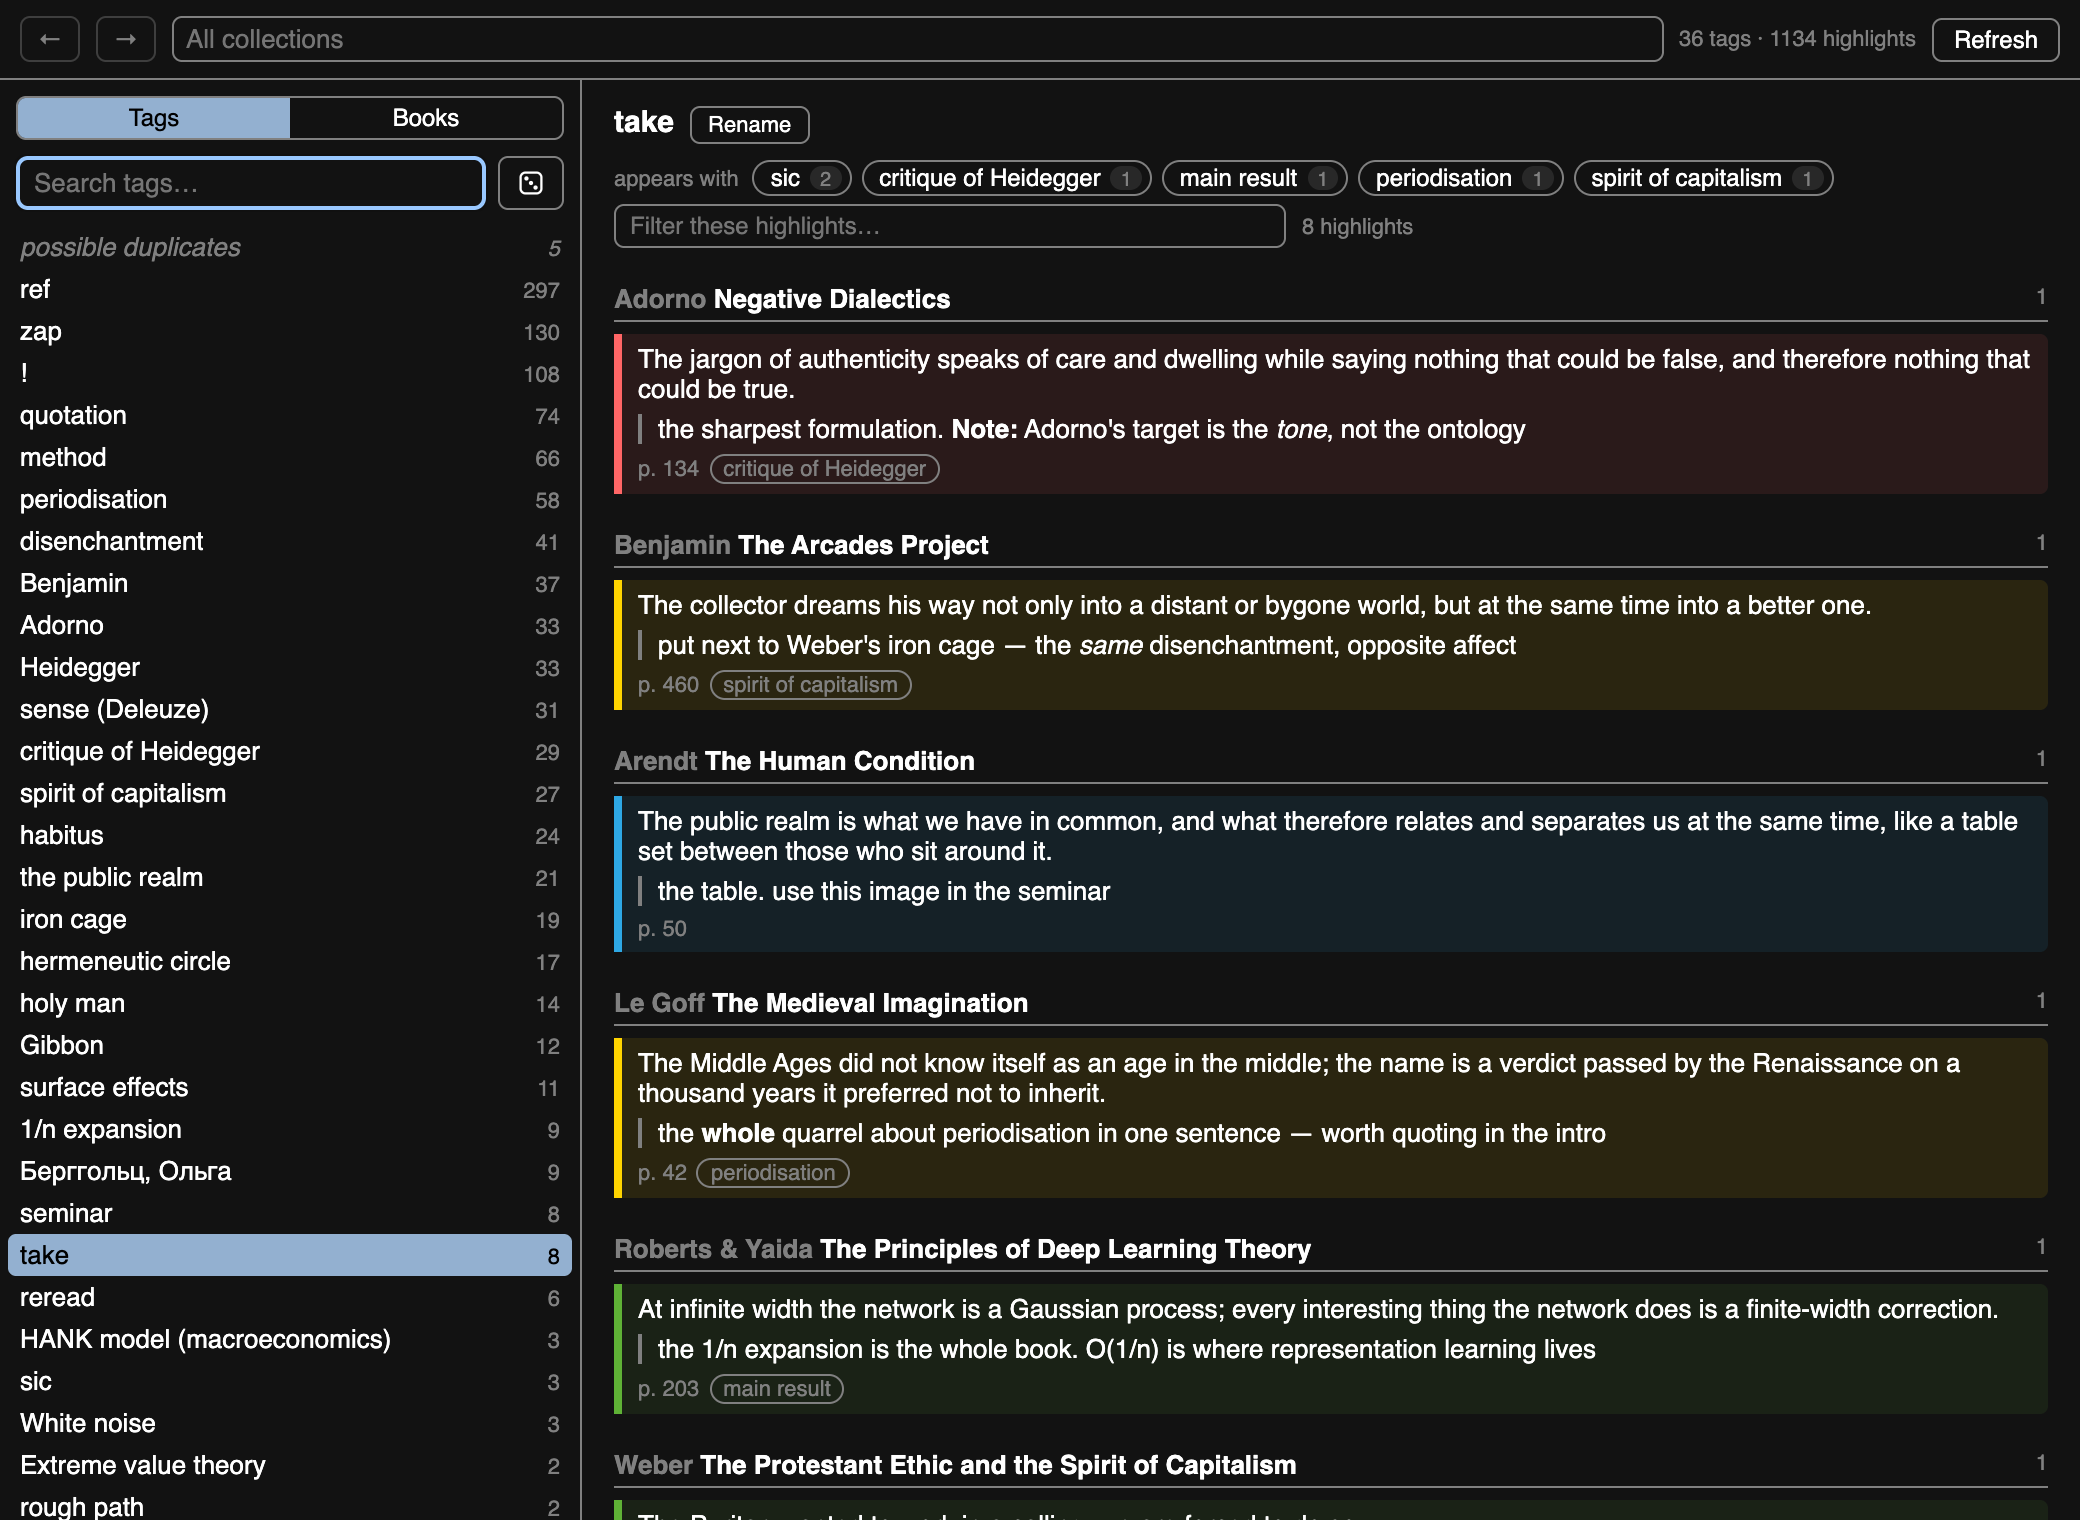
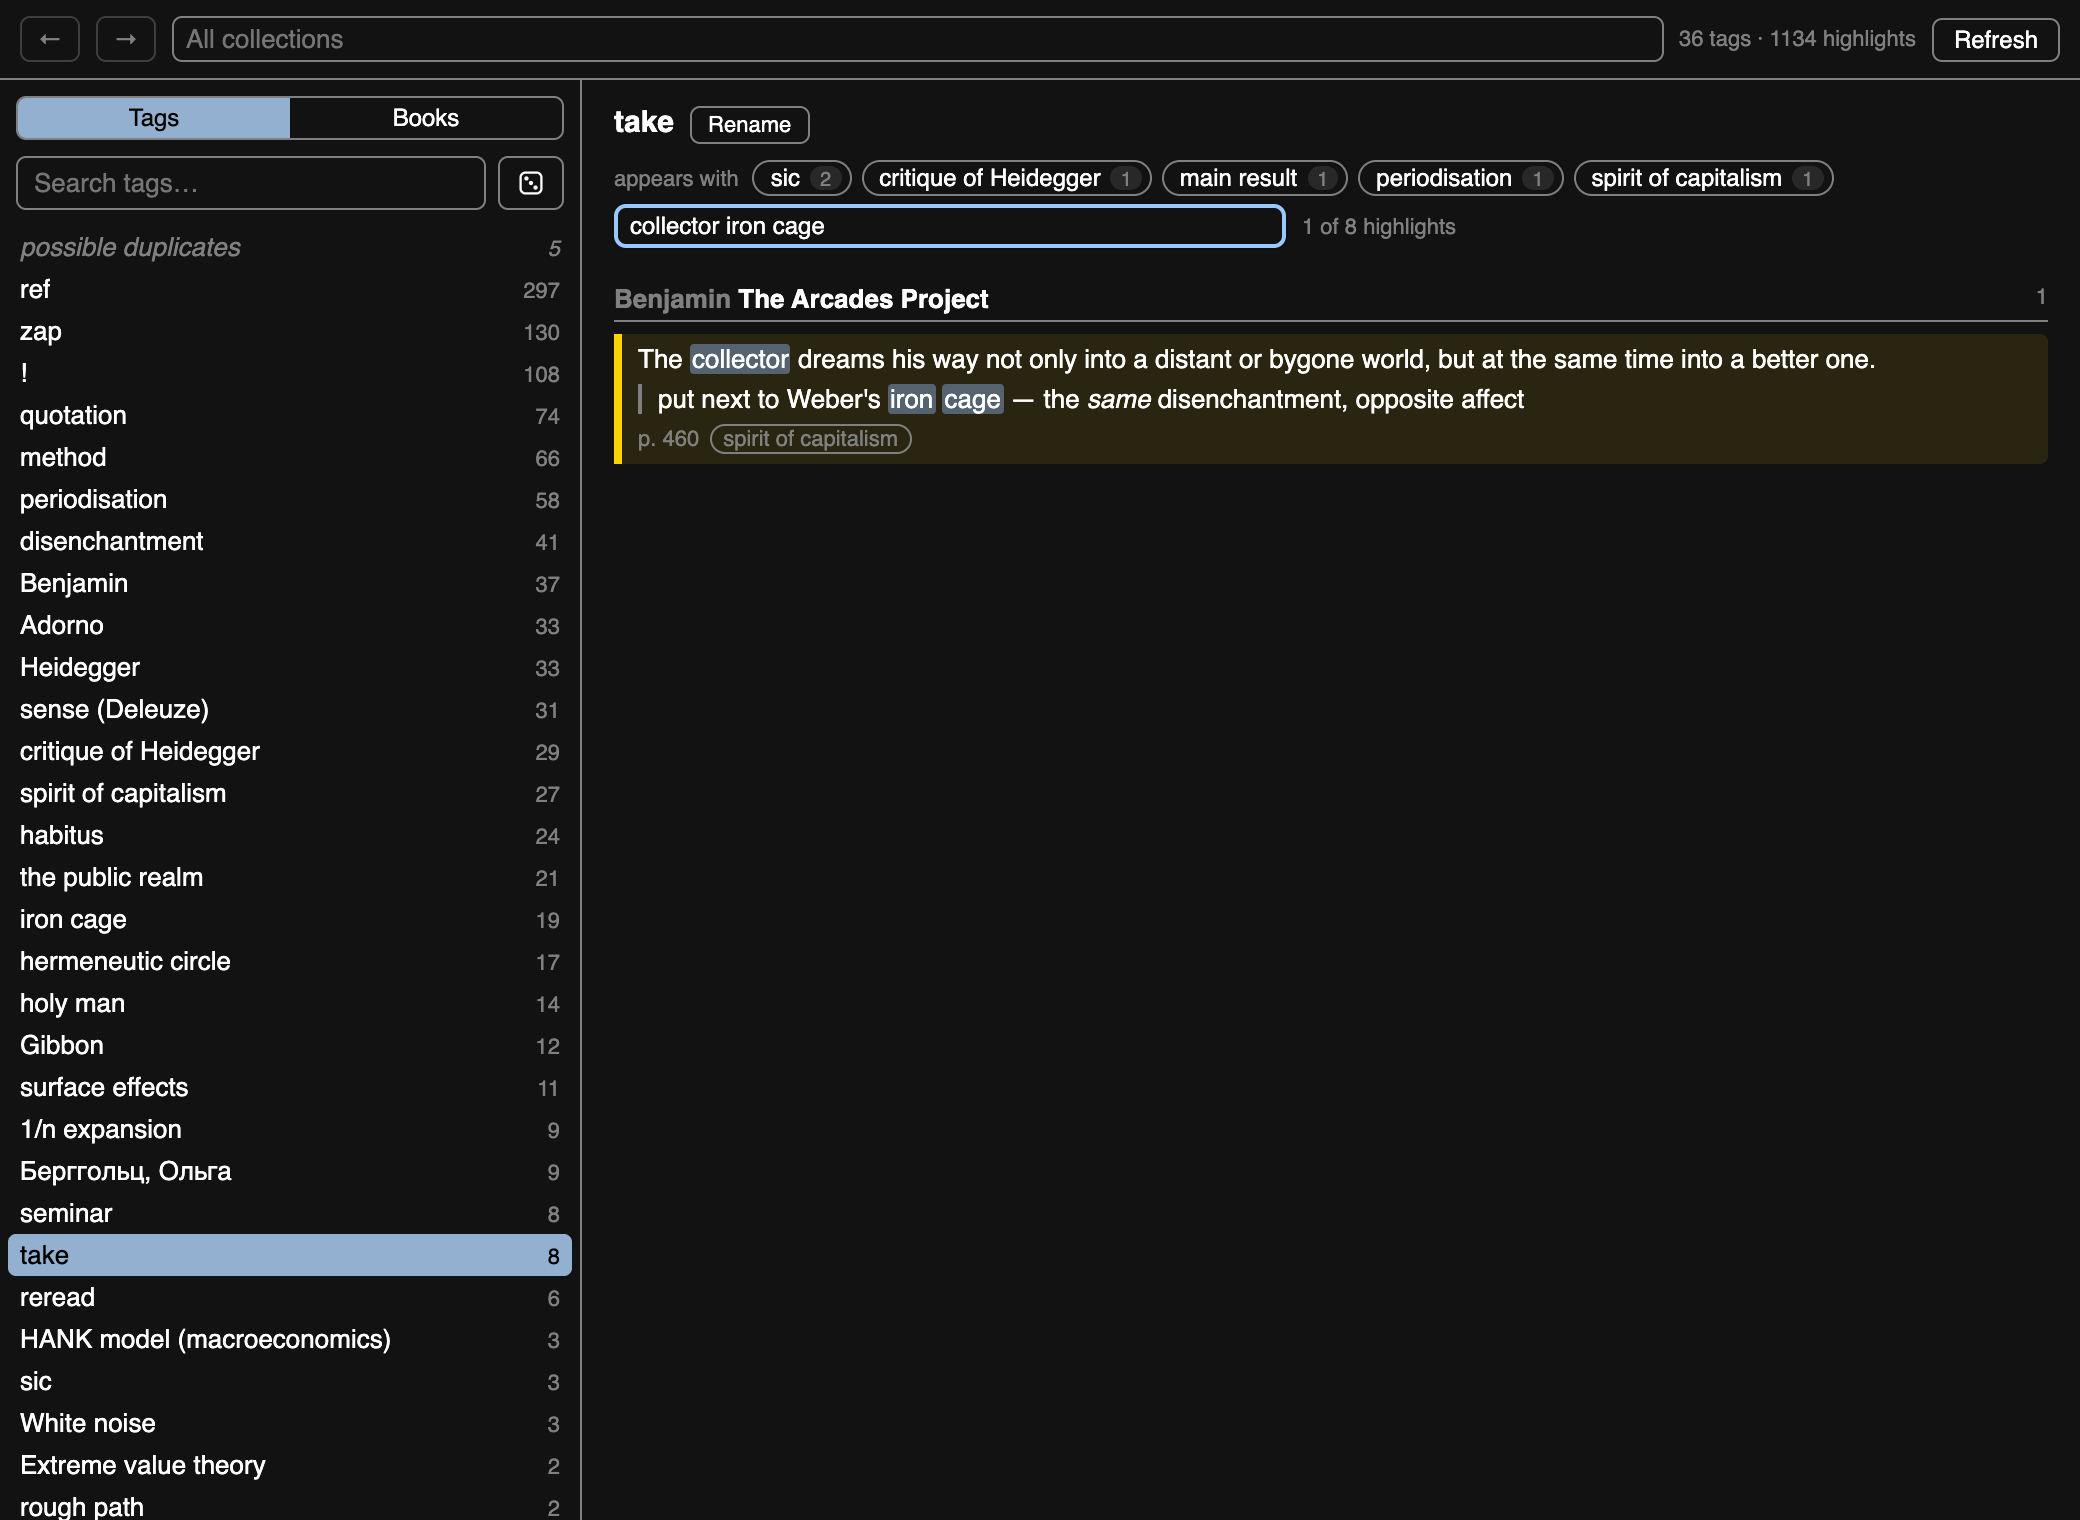
Mark the filter's matches in the text
Filtering 358 highlights down to 12 still left you scanning for the word.
Matches are now marked where they are, in the highlight, in your comment
and in the book header — and the global search marks its own query too.

Split by a mask rather than by successive replacement: two search words can
overlap in the text, and replacing in turn would nest one mark inside the
other. The runs weave through the <i>/<b> tree instead of around it, so
"the <b>whole</b> quarrel" filtered on "whole" stays bold and gains a mark
inside it.

<mark>'s user-agent style is a yellow block with black text, unreadable on
a dark card and at odds with the annotation's own colour, so it is painted
from system colours instead.

diff --git a/bootstrap.js b/bootstrap.js
@@ -225,6 +225,30 @@ function neighbours(rows, tag, limit = 14) {
 		.slice(0, limit);
 }
 
+// Split a plain string into runs, marking the parts that matched the filter.
+// A mask rather than successive replacements: two search words can overlap in
+// the text ("deep" and "epl" in "deeply"), and marking twice would nest.
+function markRuns(str, words) {
+	if (!str || !words.length) return str ? [str] : [];
+	const low = str.toLowerCase();
+	const hit = new Array(str.length).fill(false);
+	for (const w of words) {
+		if (!w) continue;
+		for (let i = low.indexOf(w); i >= 0; i = low.indexOf(w, i + 1)) {
+			for (let k = i; k < i + w.length; k++) hit[k] = true;
+		}
+	}
+	const out = [];
+	let start = 0;
+	for (let i = 1; i <= str.length; i++) {
+		if (i < str.length && hit[i] === hit[i - 1]) continue;
+		const piece = str.slice(start, i);
+		out.push(hit[start] ? { mark: piece } : piece);
+		start = i;
+	}
+	return out;
+}
+
 // The markup tags stripped, for anything that wants the words alone.
 const plain = (str) => str.replace(MARKUP, "");
 
@@ -621,6 +645,10 @@ body { margin:0; height:100vh; display:flex; flex-direction:column;
 .hl .copy:hover { background:Highlight; color:HighlightText; }
 .hl:hover { background:color-mix(in srgb, var(--c) 22%, Canvas); }
 .hl .t { white-space:pre-wrap; }
+/* the UA default is a yellow block with black text, which is unreadable on a
+ * dark card and fights the annotation's own colour */
+mark { background:color-mix(in srgb, Highlight 50%, Canvas); color:inherit;
+	border-radius:2px; padding:0 1px; }
 .hl .c { white-space:pre-wrap; margin-top:5px; padding-left:8px; border-left:2px solid GrayText;
 	color:CanvasText; }
 .hl .m { margin-top:5px; color:GrayText; font-size:11px; display:flex; flex-wrap:wrap; gap:5px; align-items:center; }
@@ -640,11 +668,16 @@ function el(doc, tag, cls, text) {
 
 // The tag names come from MARKUP's whitelist, so this cannot build anything but
 // b/i/sub/sup — no innerHTML, nothing else gets through.
-function markup(doc, str) {
+function markup(doc, str, words) {
 	const frag = doc.createDocumentFragment();
 	const put = (nodes, into) => {
 		for (const n of nodes) {
-			if (typeof n === "string") { into.append(n); continue; }
+			if (typeof n === "string") {
+				for (const run of markRuns(n, words || [])) {
+					into.append(typeof run === "string" ? run : el(doc, "mark", null, run.mark));
+				}
+				continue;
+			}
 			const box = doc.createElement(n.tag);
 			put(n.kids, box);
 			into.append(box);
@@ -655,9 +688,9 @@ function markup(doc, str) {
 }
 
 // Same, as a fresh element.
-function marked(doc, tag, cls, str) {
+function marked(doc, tag, cls, str, words) {
 	const node = el(doc, tag, cls);
-	node.append(markup(doc, str));
+	node.append(markup(doc, str, words));
 	return node;
 }
 
@@ -882,6 +915,12 @@ function build(w) {
 	let hIndex = -1;
 
 	const isTag = (t) => !!view && view.kind === "tag" && view.value === t;
+	// The words to mark: the global search is its own filter, so both boxes feed
+	// the same highlighting.
+	const marks = () => {
+		const q = view && view.kind === "find" ? view.value : hlQuery;
+		return q ? q.toLowerCase().split(/\s+/).filter(Boolean) : [];
+	};
 	// The tag currently doing the narrowing, whichever axis you are on.
 	const activeTag = () => (!view ? null
 		: view.kind === "tag" ? view.value
@@ -1034,7 +1073,7 @@ function build(w) {
 	function bookName(b) {
 		const name = el(doc, "span", "nm");
 		if (b.creator) name.append(el(doc, "i", "who", b.creator + " "));
-		name.append(markup(doc, b.title));
+		name.append(markup(doc, b.title, marks()));
 		return name;
 	}
 
@@ -1440,9 +1479,9 @@ function build(w) {
 		const box = el(doc, "div", "hl");
 		box.style.setProperty("--c", e.color);
 		box.title = "Open in the reader";
-		if (e.text) box.append(marked(doc, "div", "t", e.text));
+		if (e.text) box.append(marked(doc, "div", "t", e.text, marks()));
 		else box.append(el(doc, "div", "t", `[${e.type}]`));
-		if (e.comment) box.append(marked(doc, "div", "c", e.comment));
+		if (e.comment) box.append(marked(doc, "div", "c", e.comment, marks()));
 
 		const meta = el(doc, "div", "m");
 		if (e.page) meta.append(el(doc, "span", null, "p. " + e.page));
@@ -1552,5 +1591,5 @@ function uninstall() {}
 
 // node-only: lets test.js import the pure helpers; no-op inside Zotero.
 if (typeof module !== "undefined") {
-	module.exports = { fuzzy, rank, tagCounts, matchTags, matchColls, countByCollection, renameInList, parseMarkup, matchText, neighbours, matchBooks, bookList, related, dupeClusters, nearMisses, clusterKey, withoutDismissed, plain, asText, groupByBook };
+	module.exports = { fuzzy, rank, tagCounts, matchTags, matchColls, countByCollection, renameInList, parseMarkup, markRuns, matchText, neighbours, matchBooks, bookList, related, dupeClusters, nearMisses, clusterKey, withoutDismissed, plain, asText, groupByBook };
 }

diff --git a/test.js b/test.js
@@ -1,6 +1,6 @@
 // Self-check for the pure helpers: `node test.js`.
 const assert = require("assert");
-const { fuzzy, rank, tagCounts, matchTags, matchColls, countByCollection, renameInList, parseMarkup, matchText, neighbours, matchBooks, bookList, related, dupeClusters, nearMisses, clusterKey, withoutDismissed, groupByBook } = require("./bootstrap.js");
+const { fuzzy, rank, tagCounts, matchTags, matchColls, countByCollection, renameInList, parseMarkup, markRuns, matchText, neighbours, matchBooks, bookList, related, dupeClusters, nearMisses, clusterKey, withoutDismissed, groupByBook } = require("./bootstrap.js");
 
 assert.ok(fuzzy("", "anything"));
 assert.ok(fuzzy("mdv", "medieval"));
@@ -91,6 +91,18 @@ assert.deepStrictEqual(parseMarkup("</b> alone"), ["</b>", " alone"]);   // clos
 // Malformed but survivable: an unclosed tag just runs to the end.
 assert.deepStrictEqual(parseMarkup("<i>never closed"),
 	[{ tag: "i", kids: ["never closed"] }]);
+
+// Marking the filter's matches inside a string.
+assert.deepStrictEqual(markRuns("the decline of Rome", ["decline"]),
+	["the ", { mark: "decline" }, " of Rome"]);
+assert.deepStrictEqual(markRuns("Rome and rome", ["rome"]),
+	[{ mark: "Rome" }, " and ", { mark: "rome" }]);          // case-insensitive
+assert.deepStrictEqual(markRuns("deeply", ["deep", "epl"]),
+	[{ mark: "deepl" }, "y"]);                               // overlaps merge, never nest
+assert.deepStrictEqual(markRuns("aaa", ["aa"]), [{ mark: "aaa" }]);   // and so do repeats
+assert.deepStrictEqual(markRuns("nothing", []), ["nothing"]);
+assert.deepStrictEqual(markRuns("", ["a"]), []);
+assert.deepStrictEqual(markRuns("x", [""]), ["x"]);          // an empty word marks nothing
 
 // Filtering inside a tag: every word must appear, order does not matter, and it
 // looks in the highlight, the comment and the book title alike.

diff --git a/README.md b/README.md
@@ -19,8 +19,10 @@ A Zotero 10 plugin for reading your own marginalia by tag.
   stays as it is;
 - a filter over the highlights of the selected tag — every word you type has to
   appear somewhere in the highlight, your comment or the book, in any order, so
-  `decline brown` and `brown decline` both find the same one. `Esc` clears it;
-  it resets whenever you pick a different tag;
+  `decline brown` and `brown decline` both find the same one. Matches are
+  marked in place, so you can see *why* something survived the filter instead of
+  hunting for the word. `Esc` clears it; it resets whenever you pick a different
+  tag;
 - a collection box at the top to restrict everything to one project —
   fuzzy-searchable over the full path (`phil frank` finds *Philosophy /
   Frankfurt School*), showing how many highlights each holds,
@@ -28,7 +30,8 @@ A Zotero 10 plugin for reading your own marginalia by tag.
 - **search every highlight**, not just one tag's — type in the tag box and take
   the pinned row at the top of the list. The escape hatch for when you cannot
   remember which tag you filed something under, and each result carries its own
-  tags, so a hit is also a way back into the tag axis;
+  tags, so a hit is also a way back into the tag axis, and the words you searched
+  for are marked in every result;
 - **`←` `→`** (or `Alt`+arrows) walk back and forward through where you have
   been — tags, searches and collection scopes alike;
 - **Rename** edits the tag in place and calls Zotero's own rename, so it moves every item
